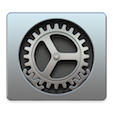
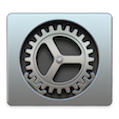
细节调整
修改设置图片及大小，设置主界面大小不能变动

diff --git a/src/MainScreen.java b/src/MainScreen.java
@@ -45,7 +45,7 @@ public class MainScreen extends JFrame{
 		icon4 = new ImageIcon("image/memoryManager.png");
 		icon5 = new ImageIcon("image/devicesManager.png");
 		icon6 = new ImageIcon("image/terminal.png");
-		icon7 = new ImageIcon("image/preference.png");
+		icon7 = new ImageIcon("image/preference2.png");
 		
 		button1 = new JButton(icon1);
 		button2 = new JButton(icon2);
@@ -90,6 +90,7 @@ public class MainScreen extends JFrame{
 		mainScreen.setLocationRelativeTo(null);
 		mainScreen.setSize(dimension);
 		mainScreen.setDefaultCloseOperation(JFrame.EXIT_ON_CLOSE);
+		mainScreen.setResizable(false);
 		mainScreen.setVisible(true);
 	}
 

diff --git a/src/Finder.java b/src/Finder.java
@@ -1,9 +1,11 @@
+import java.io.File;
+
 import javax.swing.JFrame;
 
 
 public class Finder extends JFrame{
 	public Finder() {
 		// TODO Auto-generated constructor stub
-		
+		File file = new File("");
 	}
 }
